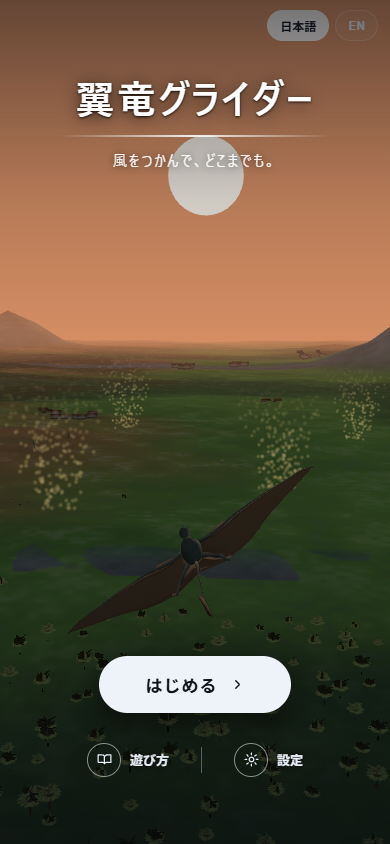
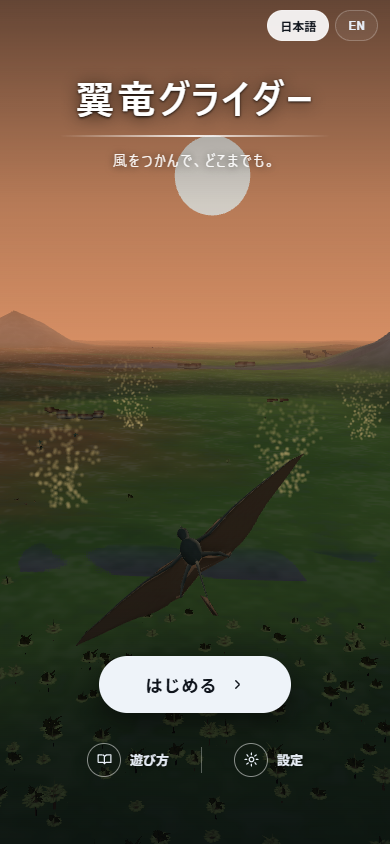
言語の切り替えが押せなかったのを直した
タイトルの板(#start)が言語のボタンより後ろに書かれていて、同じ position:fixed のまま
重なりの順番を決めていなかったため、指はタイトル側に当たっていた(所長「英語押せない?」)。
重なりを決めて、言語のボタンを常に一番上にした。

検査が element.click() を呼んでいたので素通りして通っていた。
両方の画面で当たり判定つきの本物のタップに書き直した(タイトル右上・走行の終わり)。
check-cam-picker / check-records ともに全件 PASS。

diff --git a/index.html b/index.html
@@ -40,13 +40,13 @@
   #varioFill { position:absolute; left:0; right:0; top:50%; height:0; background:#7fe08a; transition:none; }
   #varioZero { position:absolute; left:0; right:0; top:50%; height:1px; background:rgba(255,255,255,.55); }
   /* 走行の終わり。背景に埋もれて読めなかったので、1枚の板にまとめる */
-  #msg { position:fixed; inset:0; display:grid; place-items:center; color:#fff; pointer-events:none; padding:16px; }
+  #msg { z-index:2; position:fixed; inset:0; display:grid; place-items:center; color:#fff; pointer-events:none; padding:16px; }
   #msg .panel { pointer-events:auto; width:min(92vw,26rem); max-height:86vh; overflow-y:auto; text-align:center;
                 background:rgba(8,11,16,.8); border:1px solid rgba(255,255,255,.1); border-radius:16px; padding:18px 16px; }
   #msg b { font-size:26px; display:block; }
   #msg span { font-size:13px; opacity:.8; }
   /* タイトル。後ろでは本物の世界が飛んでいるので、板で覆わず上下のぼかしだけで文字を読ませる */
-  #start { position:fixed; inset:0; display:flex; flex-direction:column; justify-content:space-between;
+  #start { z-index:2; position:fixed; inset:0; display:flex; flex-direction:column; justify-content:space-between;
            text-align:center; color:#fff; padding:calc(env(safe-area-inset-top) + 9vh) 22px calc(env(safe-area-inset-bottom) + 7vh);
            background:linear-gradient(180deg,rgba(5,8,13,.55) 0%,rgba(5,8,13,.16) 24%,rgba(5,8,13,0) 42%,
                                               rgba(5,8,13,.22) 70%,rgba(5,8,13,.62) 100%); }
@@ -71,7 +71,7 @@
   #subBtns svg { width:17px; height:17px; }
   #subBtns i { width:1px; height:26px; background:rgba(255,255,255,.3); }
   /* 遊び方・設定の中身 */
-  .sheet { position:fixed; inset:0; display:grid; place-items:center; padding:16px; background:rgba(4,6,10,.72); color:#fff; }
+  .sheet { z-index:10; position:fixed; inset:0; display:grid; place-items:center; padding:16px; background:rgba(4,6,10,.72); color:#fff; }
   .sheet .panel { width:min(94vw,27rem); max-height:88vh; overflow-y:auto; text-align:center;
                   background:rgba(8,11,16,.94); border:1px solid rgba(255,255,255,.12); border-radius:16px; padding:18px 16px; }
   .sheet h2 { font-size:15px; font-weight:650; margin-bottom:12px; }
@@ -88,7 +88,7 @@
   #cams button[aria-checked="true"] { background:rgba(127,224,138,.16); color:#fff; border-color:#7fe08a; }
   #cams button[aria-checked="true"]::before { content:"✓ "; color:#7fe08a; }
   /* 発見の知らせ。飛行を止めず、視界の邪魔をしない大きさで出して消える */
-  #found { position:fixed; left:0; right:0; top:22%; text-align:center; pointer-events:none;
+  #found { z-index:3; position:fixed; left:0; right:0; top:22%; text-align:center; pointer-events:none;
            opacity:0; transition:opacity .45s ease; }
   #found.show { opacity:1; }
   #found span { display:block; font-size:11px; letter-spacing:.34em; color:#ffd79a; text-shadow:0 1px 4px rgba(0,0,0,.7); }
@@ -107,7 +107,7 @@
                     background:rgba(255,255,255,.14); color:#e8eef7; pointer-events:auto; }
   #endBtns button.main { background:#e8eef7; color:#10151d; }
   /* ランキング。個人と世界をタブで切り替える */
-  #rank { position:fixed; inset:0; display:grid; place-items:center; padding:16px; background:rgba(4,6,10,.72); color:#fff; }
+  #rank { z-index:10; position:fixed; inset:0; display:grid; place-items:center; padding:16px; background:rgba(4,6,10,.72); color:#fff; }
   #rank .panel { width:min(94vw,28rem); max-height:88vh; overflow-y:auto;
                  background:rgba(8,11,16,.94); border:1px solid rgba(255,255,255,.12); border-radius:16px; padding:16px; }
   #rank h2 { font-size:15px; font-weight:650; margin-bottom:10px; text-align:center; }
@@ -144,7 +144,8 @@
   #rankFoot { display:flex; justify-content:space-between; align-items:center; margin-top:14px; font-size:11px; opacity:.6; }
   #rankFoot button { padding:9px 18px; font-size:13px; border:0; border-radius:999px; background:rgba(255,255,255,.14); color:#e8eef7; font-weight:650; opacity:1; }
   /* 言語の切り替え(スタート画面の隅) */
-  #lang { position:fixed; top:calc(env(safe-area-inset-top) + 10px); right:12px; display:flex; gap:6px; }
+  /* 言語の切り替えは常に一番上。下に敷くと板に覆われて指が当たらない(所長「英語押せない?」) */
+  #lang { z-index:30; position:fixed; top:calc(env(safe-area-inset-top) + 10px); right:12px; display:flex; gap:6px; }
   #lang button { padding:6px 12px; font-size:12px; font-weight:600; border-radius:999px;
                  border:1px solid rgba(255,255,255,.22); background:rgba(255,255,255,.06); color:#e8eef7; }
   #lang button[aria-pressed="true"] { background:rgba(255,255,255,.9); color:#10151d; }

diff --git a/README.md b/README.md
@@ -69,7 +69,10 @@ npm run dev     # http://localhost:8141
   （4通り並べて選んだ: `screenshots/_タイトルのカメラ.png`）
 - 明るさ・高さも9通り並べて選んだ（`screenshots/_タイトルの光.png`）
 - **操作の説明は「遊び方」**、**カメラは「設定」**の中。タイトルには題と一行だけ置く
-- **日本語／英語の切り替えは右上**。タイトルと走行の終わりの画面に出る
+- **日本語／英語の切り替えは右上**。タイトルと走行の終わりの画面に出る。
+  重なりの順番を決めてある（言語のボタンが一番上）。下に敷いたらタイトルの板に覆われて
+  指が当たらなくなっていた（所長「英語押せない?」）。検査を `element.click()` で書いていたため
+  素通りして気づけなかった → **押せるかは当たり判定で測る**
 - 見本飛行は記録にも発見（ずかん）にも入れない。「はじめる」で新しい走行を作り直す
 
 ## 発見（Discovery）
